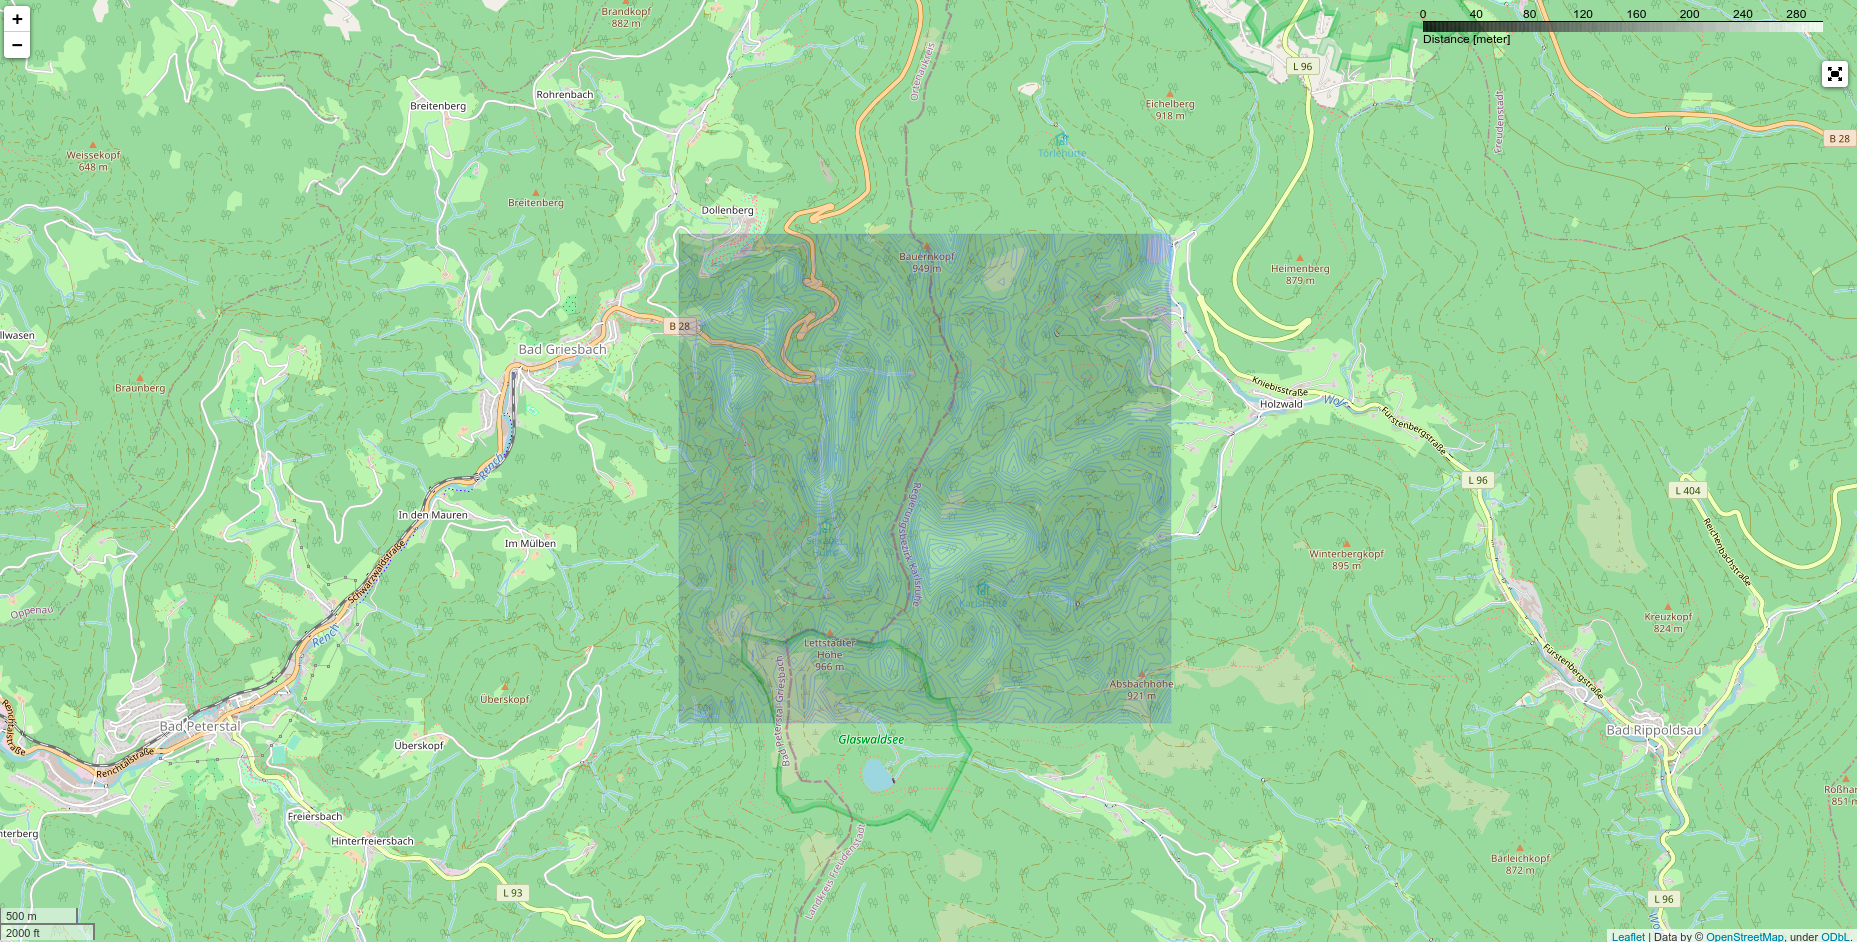
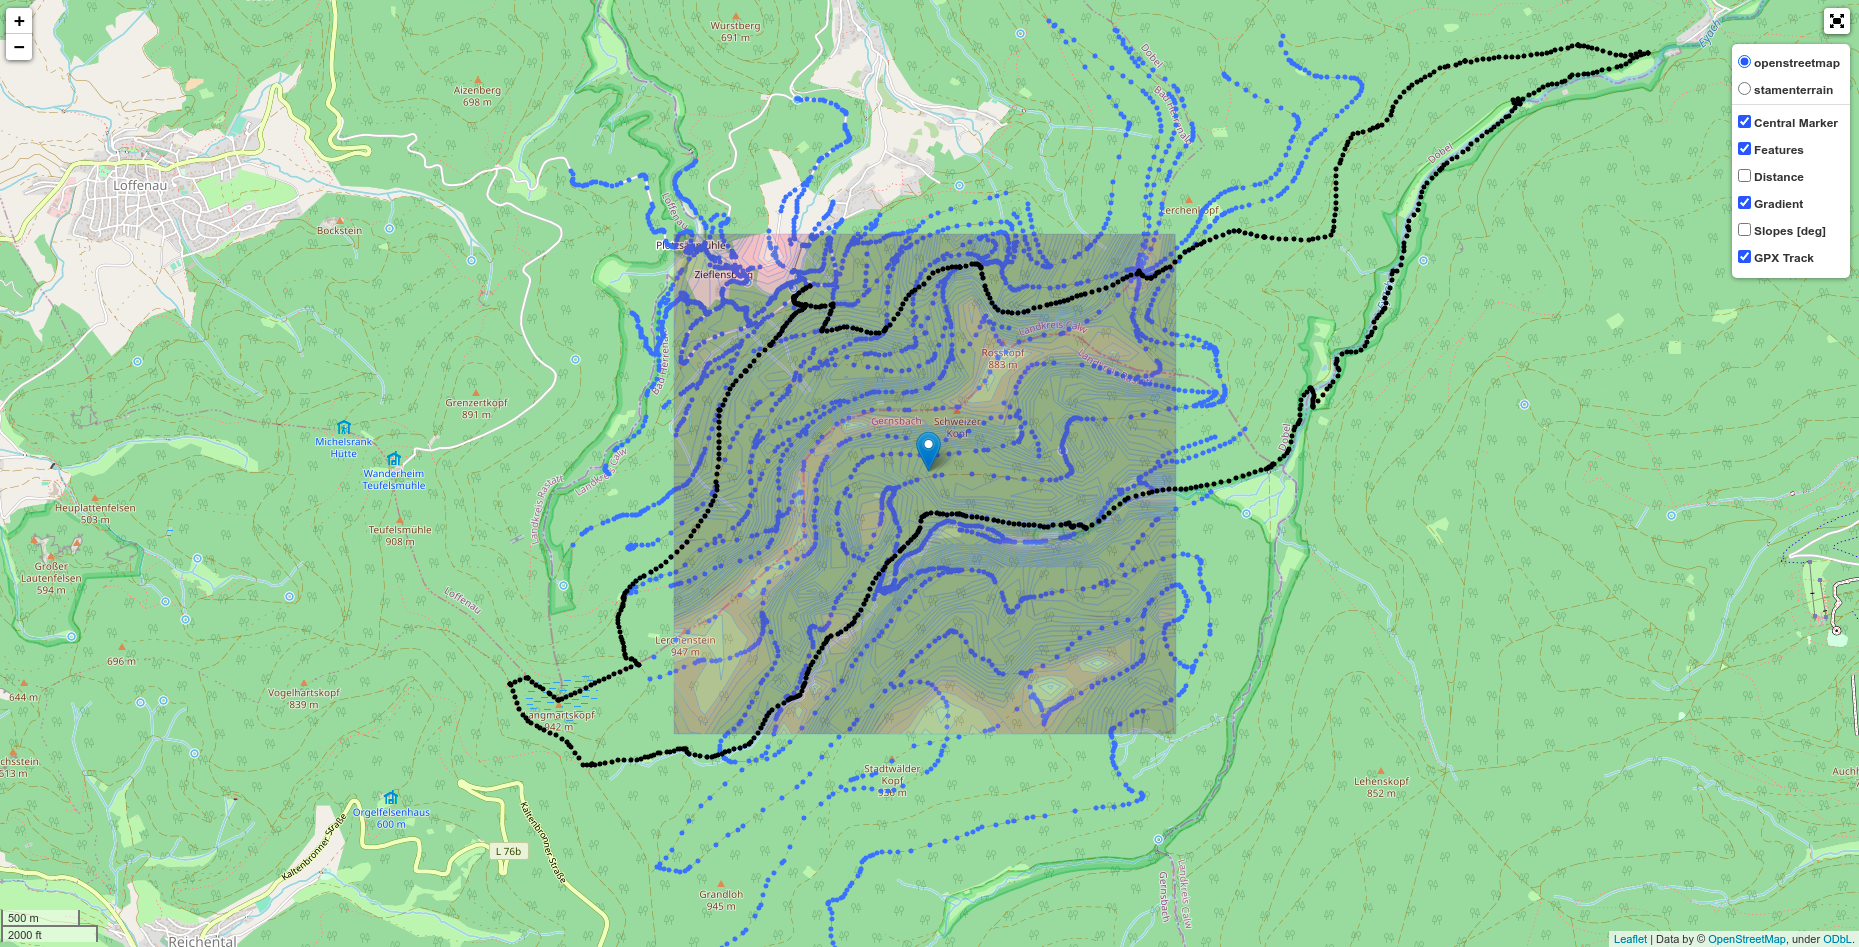
Removed the option -nplaces. The Readme file is updated accordingly w.r.t. to the new modifications. A new screenshot of the output is provided.

diff --git a/sleepy.py b/sleepy.py
@@ -310,7 +310,7 @@ parser.add_argument('-res_m', default=100)
 parser.add_argument('-cmap', default='seismic')
 parser.add_argument('-min_dist', default=300)
 parser.add_argument('-gpx', default=False)
-parser.add_argument('-nplaces', default=0)
+#parser.add_argument('-nplaces', default=0)
 parser.add_argument('-topo', default=False)
 
 args = parser.parse_args()
@@ -323,7 +323,7 @@ grid_resolution_meter = float(args.res_m)
 cmap_name = str(args.cmap)
 vmax = float(args.min_dist)
 gpx = args.gpx
-nplaces = int(args.nplaces)
+#nplaces = int(args.nplaces)
 topo = args.topo
 
 # define geographical coordinates of corners of search area

diff --git a/README.md b/README.md
@@ -28,9 +28,6 @@ The available options are:
     -min_dist      The minimum distance from buildings, roads, hunting stands to be considered 
                     acceptable in meter (default=300).
     -gpx           Load a .gpx file. Track will be overplotted. Default: no gpx file is loaded.
-    -nplaces       If >0 then n markers at position of largest distance are placed with popus 
-                    containing a link to google maps satellite images. The zoom level is 
-                    identical to the original folium map zoom level. Default=0.
     -topo          If True (default=False) the elevation of the defined grid of coordinates is queried
                     via an API from a local setup server and data set 
                     (see https://www.opentopodata.org/ for details). Depending on the grid size and resolution
@@ -41,11 +38,12 @@ Output
 ------
 
 The final output is a html file called "{map or area_name}_lon{}_lat{}_radius{}_res_{}_dist{}.html" with the main used 
-parameters in the filename. It shows an interactive map centered around the user
+parameters in the filename. It shows an interactive map centered around the provided
 coordinates. If "area_name" is set this value will appear at the beginning of the file name. Otherwise, the file name start 
-with "map". A contour plot shows for each location inside the user defined area the approximate distance to roads, 
-paths, tracks, and hunting stands. In addition, a map with the identified objects and the provided user coordinates is 
-provided. The file name of this map is identical to the one of the final map but with "_tmp.html" added to the end.
+with "map". On the right-hand side of the map different markers, layers, and contours can be plotted over the map.
+E.g. The contour plot 'Distance' shows for each location inside the user defined area the approximate distance to roads, 
+paths, tracks, and hunting stands. If 'Features' is selected the coordinates of identified features inside the search area 
+are displayed on the map.
 
 ![Example output](https://github.com/amuellerastro/sleepy/blob/main/example.png?raw=true)
 
